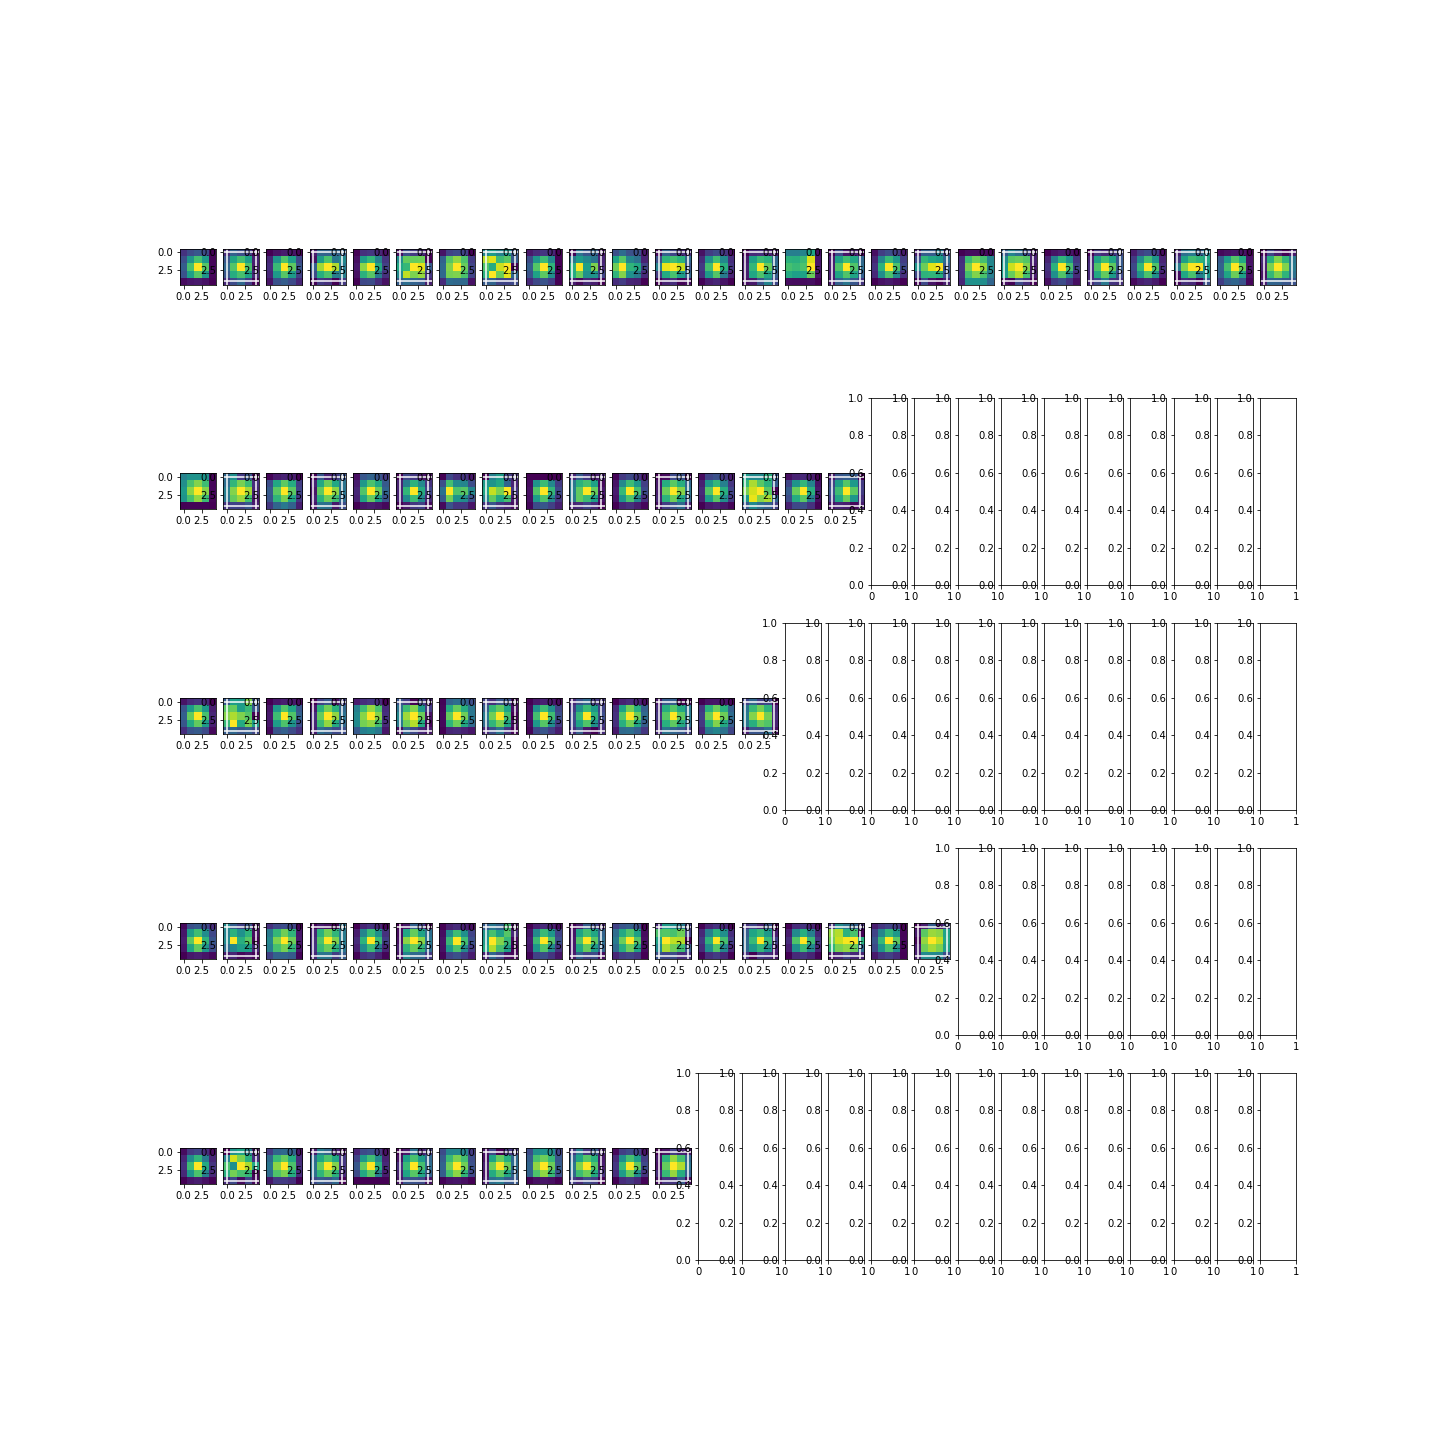
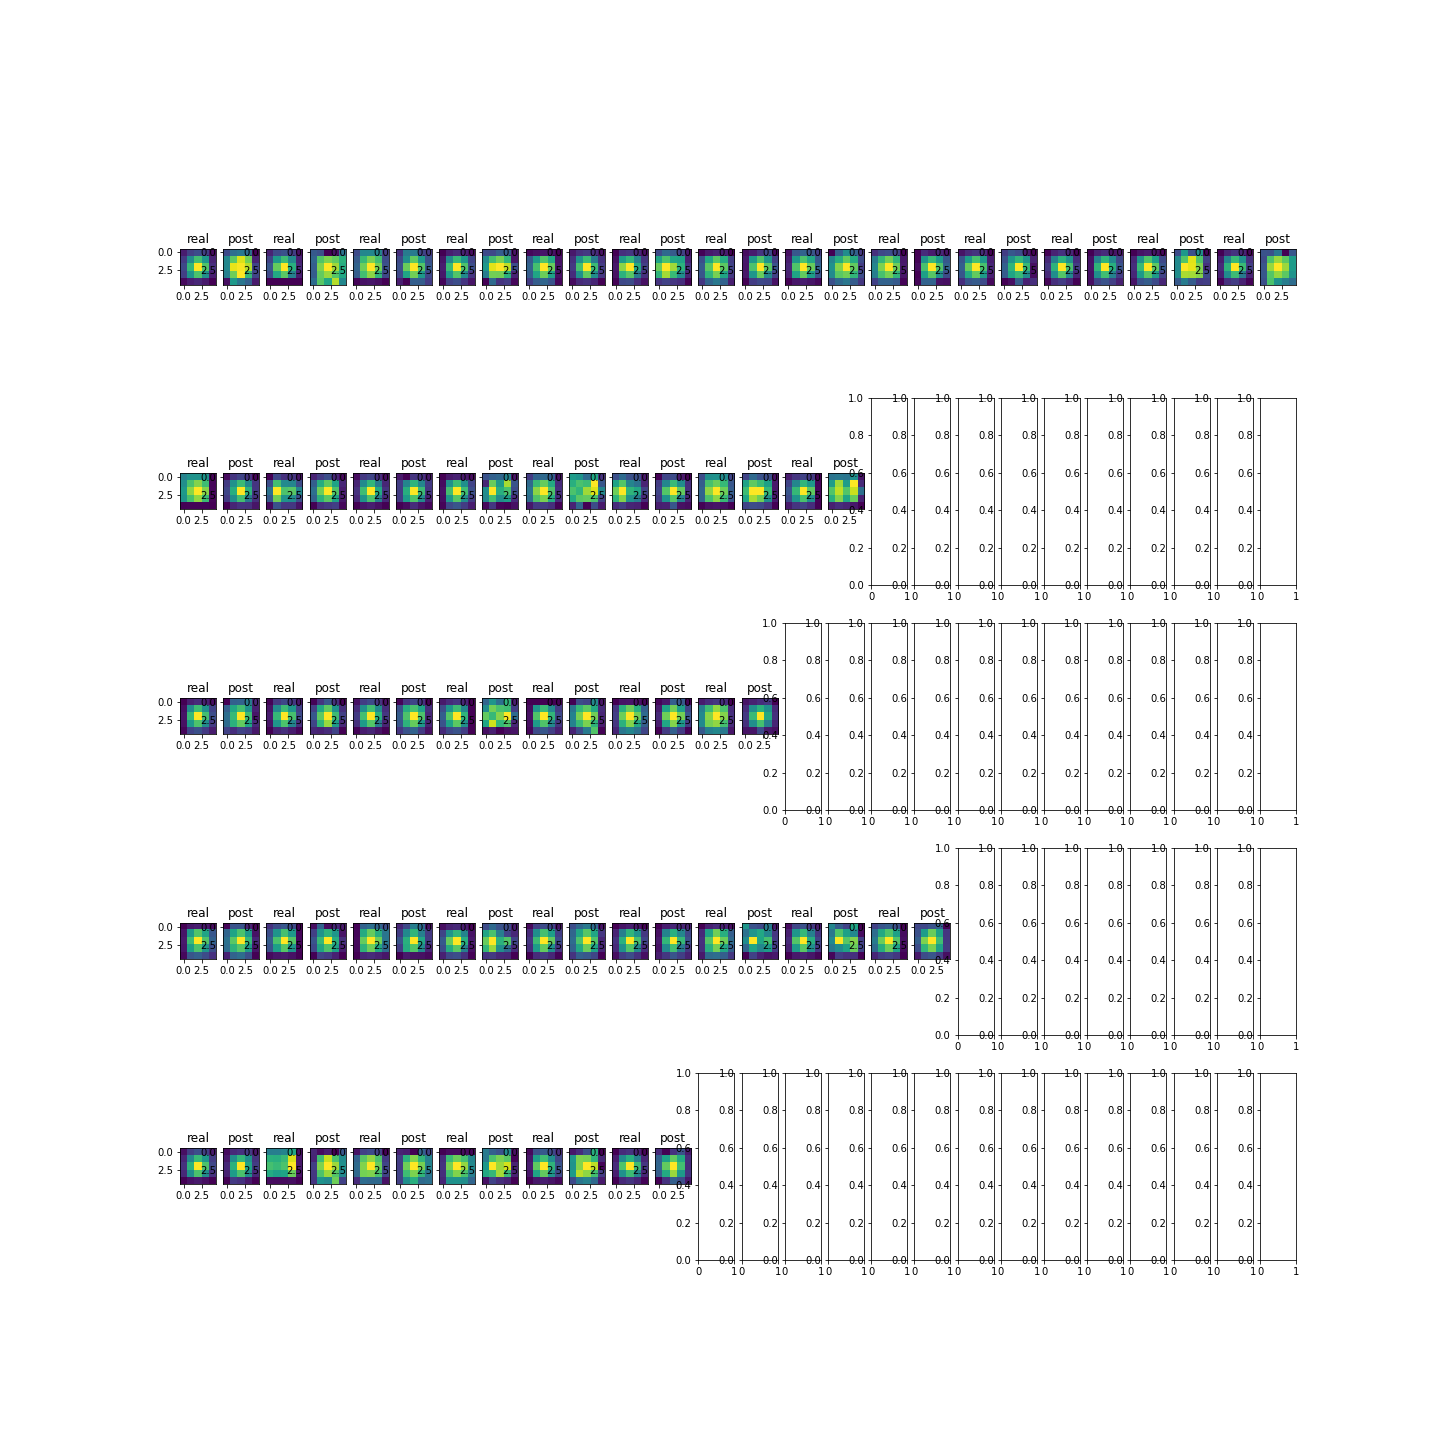
new changes

diff --git a/case_studies/sdss_psf/sdss_psf.py b/case_studies/sdss_psf/sdss_psf.py
@@ -23,10 +23,10 @@ import matplotlib.pyplot as plt
 
 sdss_data = sdss.SloanDigitalSkySurvey(
     # sdss_dir=sdss_dir,
-    Path(bliss.__file__).parents[1].joinpath("data/sdss"),
+    Path(bliss.__file__).parents[1].joinpath("data/sdss_all"),
     run=3900,
     camcol=6,
-    fields=(269,),
+    fields=(808,),
     bands=range(5),
 )
 
@@ -34,7 +34,7 @@ image = torch.Tensor(sdss_data[0]["image"])
 slen0 = image.shape[-2]
 slen1 = image.shape[-1]
 
-plt.imshow(image[2, :100, :100])
+plt.imshow(image[2].log())
 
 #%%
 fig, axes = plt.subplots(nrows=1, ncols=1, figsize=(4, 4))
@@ -178,39 +178,96 @@ def plot_cluster_images(c, y_true, y_pred, n_S=0):
     for i in np.unique(c):
         if sum(c == i) > n_max:
             n_max = sum(c == i)
-    figsize = (20, 20)
+    figsize = (2 * n_max * 2, 10)
     plot, axes = plt.subplots(nrows=len(np.unique(c)), ncols=n_max * 2, figsize=figsize)
     in_posterior = np.array([False] * n_S + [True] * (len(c) - n_S))
     for i in np.unique(c):
         ytc = y_true[c == i]
         ypc = y_pred[c == i]
         ipc = in_posterior[c == i]
-        for j in range(ytc.shape[0]):
-            ax = axes[i, 2 * j]
-            ax.imshow(ytc[j].reshape(5, 5))
-            ax = axes[i, 2 * j + 1]
-            ax.imshow(ypc[j].reshape(5, 5))
-            ax = axes[i, 2 * j + 1]
-            color = "w" if ipc[j] else "r"
-            ax.axhline(0, color=color)
-            ax.axhline(4, color=color)
-            ax.axvline(0, color=color)
-            ax.axvline(4, color=color)
+        for j in range(n_max):
+            if j < len(ipc):
+                ax = axes[i, 2 * j]
+                ax.imshow(ytc[j].reshape(5, 5), interpolation="nearest")
+                ax.set_title("real")
+                ax.get_xaxis().set_visible(False)
+                ax.get_yaxis().set_visible(False)
+                ax = axes[i, 2 * j + 1]
+                ax.imshow(ypc[j].reshape(5, 5), interpolation="nearest")
+                title = "post" if ipc[j] else "recn"
+                ax.get_xaxis().set_visible(False)
+                ax.get_yaxis().set_visible(False)
+                ax.set_title(title)
+            else:
+                axes[i, 2 * j].axis("off")
+                axes[i, 2 * j + 1].axis("off")
+            # ax.axhline(0, color=color)
+            # ax.axhline(4, color=color)
+            # ax.axvline(0, color=color)
+            # ax.axvline(4, color=color)
+    # plot.tight_layout()
     return plot, axes
 
 
-#%%
+def plot_cluster_representatives(m, X, G, S, c, n_samples=7):
+    Ys = torch.stack([m.hnp.predict(X, G, S) for i in range(n_samples)])
+    n_S = S.size(0)
+    figsize = (2 * n_samples, 10)
+    plot, axes = plt.subplots(nrows=len(np.unique(c)), ncols=n_samples, figsize=figsize)
+    in_posterior = np.array([False] * n_S + [True] * (len(c) - n_S))
+    for i in np.unique(c):
+        idx = np.argmax(np.array(c == i) * in_posterior)
+        for j in range(n_samples):
+            ax = axes[i, j]
+            ax.imshow(Ys[j, idx].reshape(5, 5), interpolation="nearest")
+            ax.get_xaxis().set_visible(False)
+            ax.get_yaxis().set_visible(False)
+    return plot, axes
 
+
+def plot_cluster_stars(Y, c, n_samples=7):
+    figsize = (2 * n_samples, 10)
+    plot, axes = plt.subplots(nrows=len(np.unique(c)), ncols=n_samples, figsize=figsize)
+    for i in np.unique(c):
+        # idx = np.argmax(np.array(c==i) * in_posterior)
+        Yc = Y[c == i]
+        for j in range(n_samples):
+            ax = axes[i, j]
+            ax.imshow(Yc[j].reshape(5, 5), interpolation="nearest")
+            ax.get_xaxis().set_visible(False)
+            ax.get_yaxis().set_visible(False)
+    return plot, axes
+
+
+def pred_mean(m, X, G, S, n_samples):
+    return torch.stack([m.hnp.predict(X, G, S) for i in range(n_samples)]).mean(0)
+
+
+#%%
+xall = pred_mean(m, X, G, S, 100)
 p, a = plot_cluster_images(c, Y, x, n_S=Y.size(0))
-p.savefig("test.png")
+p.savefig("test.png", transparent=False)
 # %%
-x20 = m.hnp.predict(X, G, S[:20])
+x20 = pred_mean(m, X, G, S[:20], 100)
 p, a = plot_cluster_images(c, Y, x20, n_S=20)
 p.savefig("test20.png")
 # %%
 # No input (just predict from catalog)
-x0 = m.hnp.predict(X, G, S[:0])
+x0 = pred_mean(m, X, G, S[:0], 100)
 p, a = plot_cluster_images(c, Y, x0, n_S=0)
 p.savefig("test0.png")
 
+# %%
+# Plot the "cluster" representatives for each star
+# With no data (sample from prior)
+p, a = plot_cluster_representatives(m, X, G, S[:0], c, 10)
+p.savefig("cluster_reps0.png")
+# %%
+# With a lot of data
+p, a = plot_cluster_representatives(m, X, G, S[:200], c, 10)
+p.savefig("cluster_reps200.png")
+#%%
+# Plot some random samples from each cluster
+p, a = plot_cluster_stars(Y, c, 10)
+p.savefig("cluster_stars.png")
 # %%
